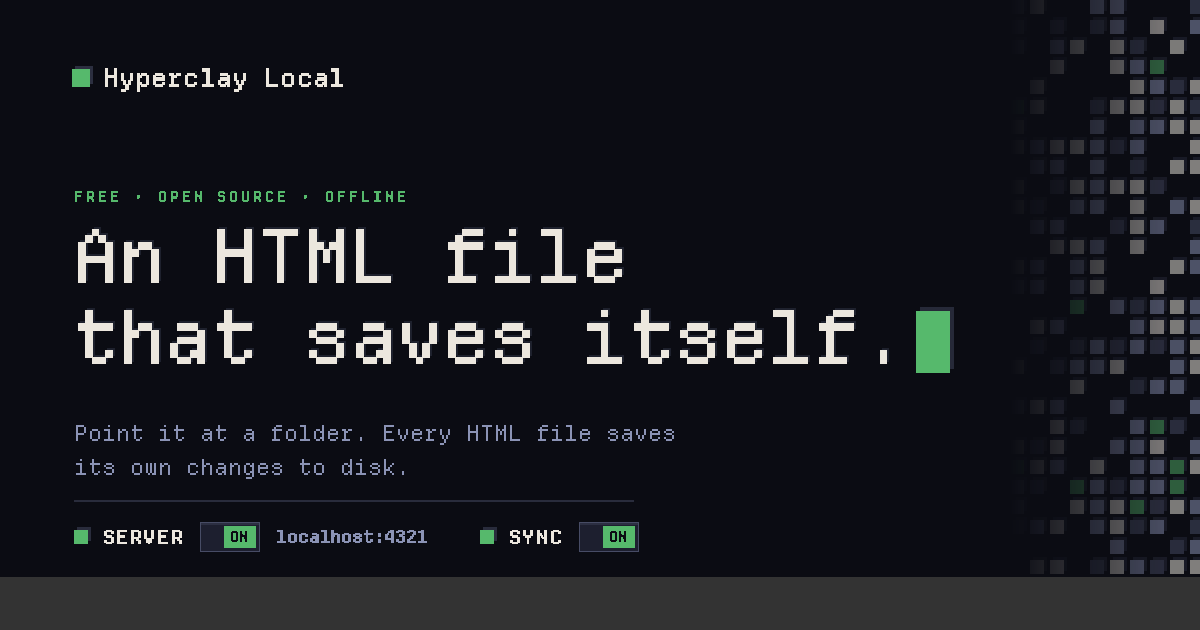
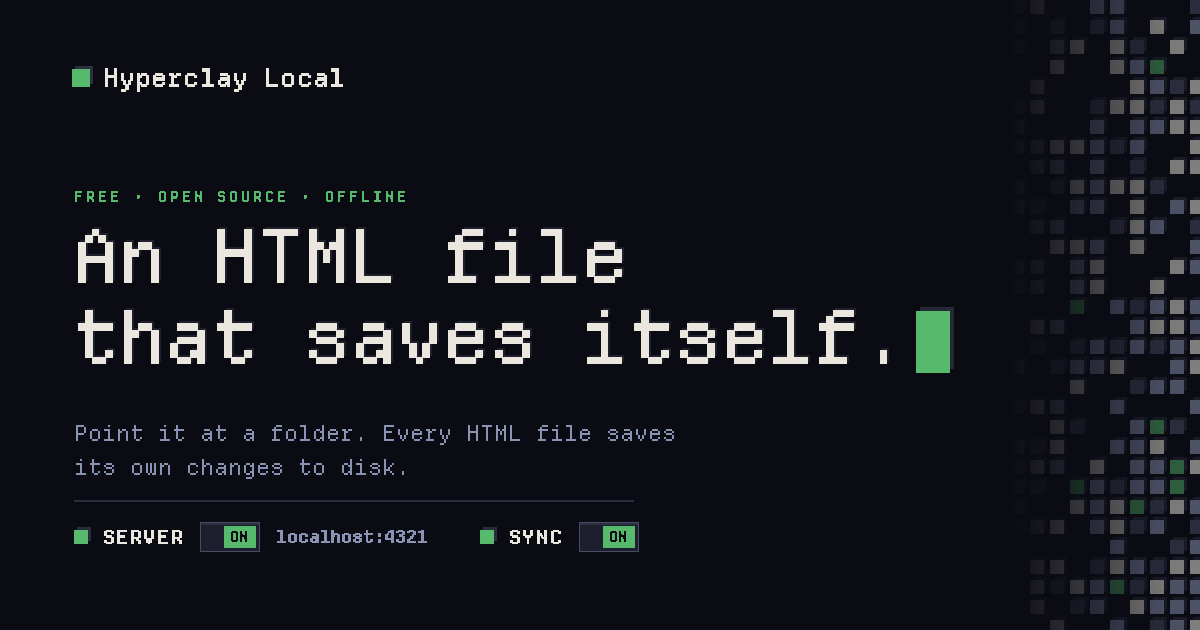
og

Changed region(s): [[0.0, 0.9048, 1.0, 1.0]]

diff --git a/website/open-graph.html b/website/open-graph.html
@@ -21,7 +21,7 @@
   * { margin: 0; padding: 0; box-sizing: border-box; }
 
   body {
-    background: #333;
+    background: var(--canvas);
     display: grid;
     place-items: center;
     min-height: 100vh;